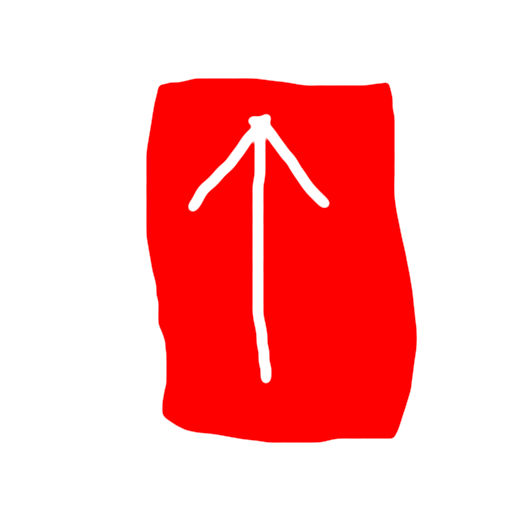
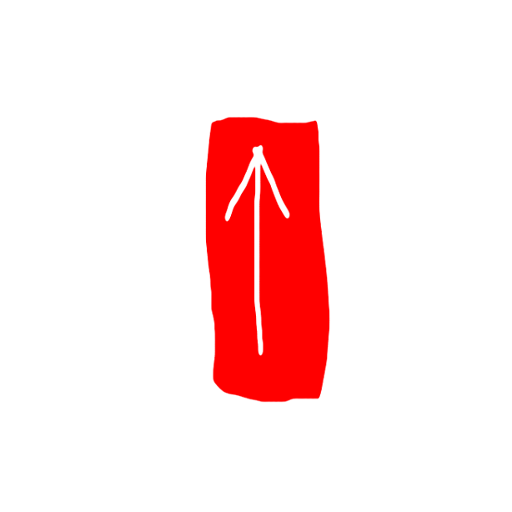
fix displayed car dimensions

Changed region(s): [[0.2812, 0.125, 0.8125, 0.875]]

diff --git a/src/scr/Renderer.cpp b/src/scr/Renderer.cpp
@@ -178,7 +178,7 @@ void Renderer::loadTextures()
 
 void Renderer::loadCarVBO(const Car* car)
 {
-	float w = car->getWidth();
+	float w = car->getLength();
 	GLfloat vertices[] = {w, w,
 		w, -w,
 		-w, w,
